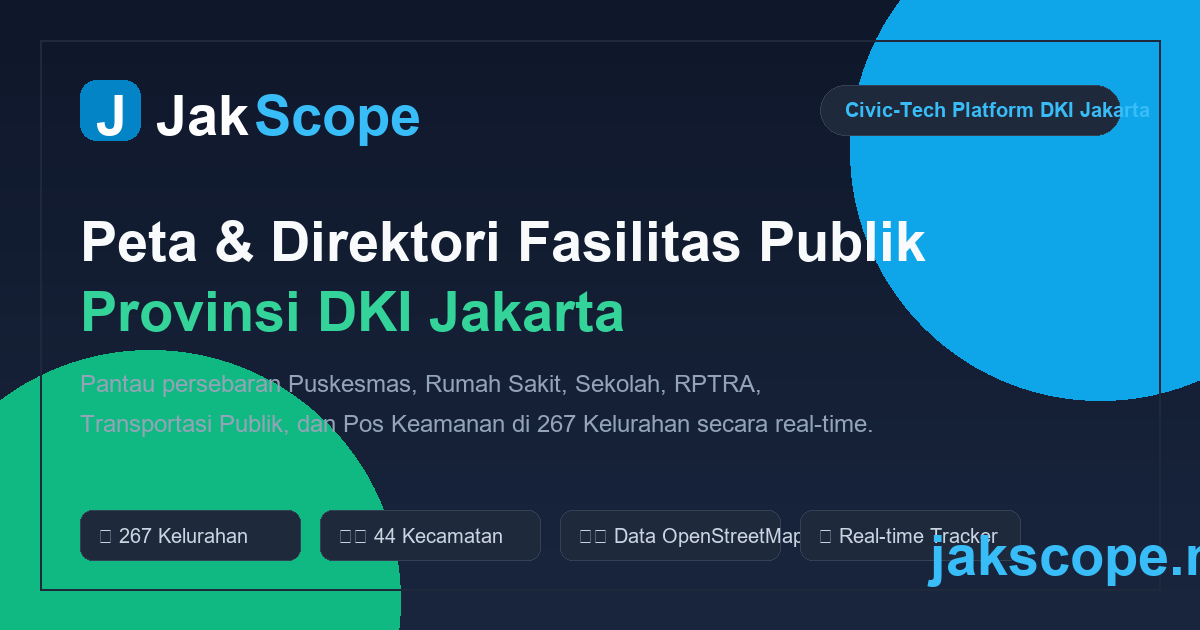
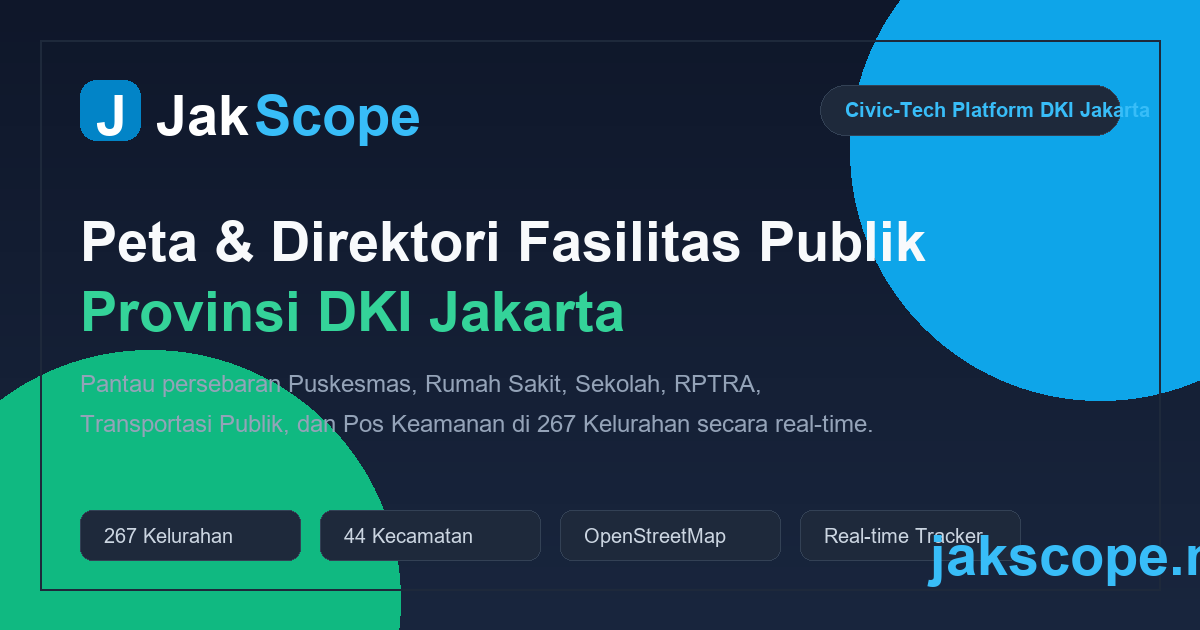
style: remove emojis, em-dashes, and non-ascii characters

Changed region(s): [[0.4933, 0.8143, 0.8325, 0.8746], [0.2775, 0.8444, 0.4317, 0.8746], [0.0925, 0.8143, 0.2158, 0.8746]]

diff --git a/frontend/src/app/page.tsx b/frontend/src/app/page.tsx
@@ -96,7 +96,7 @@ export default function LandingPage() {
                 href="#direktori-wilayah"
                 className="inline-flex items-center justify-center bg-slate-900/80 hover:bg-slate-800 text-slate-200 font-semibold px-6 py-4 rounded-full border border-slate-700 transition-all"
               >
-                Lihat Direktori Kelurahan ↓
+                Lihat Direktori Kelurahan
               </a>
             </div>
 
@@ -205,7 +205,7 @@ export default function LandingPage() {
               <span className="bg-gradient-to-r from-jakarta-blue-light to-jakarta-emerald bg-clip-text text-transparent">
                 Scope
               </span>{" "}
-              © {new Date().getFullYear()} JakScope. All rights reserved.
+              (c) {new Date().getFullYear()} JakScope. All rights reserved.
             </p>
             <p className="text-xs text-slate-500">
               Data spasial bersumber dari database kolaboratif{" "}
@@ -223,11 +223,11 @@ export default function LandingPage() {
               <Link href="/sitemap.xml" className="hover:text-slate-300 transition-colors">
                 Sitemap XML
               </Link>
-              <span>·</span>
+              <span className="text-slate-700">|</span>
               <a href="/llms.txt" target="_blank" className="hover:text-slate-300 transition-colors">
                 llms.txt (AI Standard)
               </a>
-              <span>·</span>
+              <span className="text-slate-700">|</span>
               <a href="/llms-full.txt" target="_blank" className="hover:text-slate-300 transition-colors">
                 llms-full.txt
               </a>

diff --git a/frontend/src/app/dashboard/[villageId]/DashboardClient.tsx b/frontend/src/app/dashboard/[villageId]/DashboardClient.tsx
@@ -239,7 +239,7 @@ export default function DashboardClient({
               Kelurahan {data.village_name}
             </h1>
             <p className="text-xs text-slate-400">
-              Kecamatan {data.district_name} · DKI Jakarta
+              Kecamatan {data.district_name}, DKI Jakarta
             </p>
           </div>
 
@@ -502,7 +502,7 @@ export default function DashboardClient({
         <span className="bg-gradient-to-r from-jakarta-blue-light to-jakarta-emerald bg-clip-text text-transparent">
           Scope
         </span>{" "}
-        · Data spasial dari{" "}
+        - Data spasial dari{" "}
         <a
           href="https://www.openstreetmap.org"
           target="_blank"

diff --git a/frontend/src/app/api/villages/[villageId]/dashboard/route.ts b/frontend/src/app/api/villages/[villageId]/dashboard/route.ts
@@ -37,7 +37,7 @@ export async function GET(
     }
 
     const villageName = info.name;
-    const districtName = (info.districts as any)?.name || "—";
+    const districtName = (info.districts as any)?.name || "-";
 
     return NextResponse.json({
       village_id: info.id,
